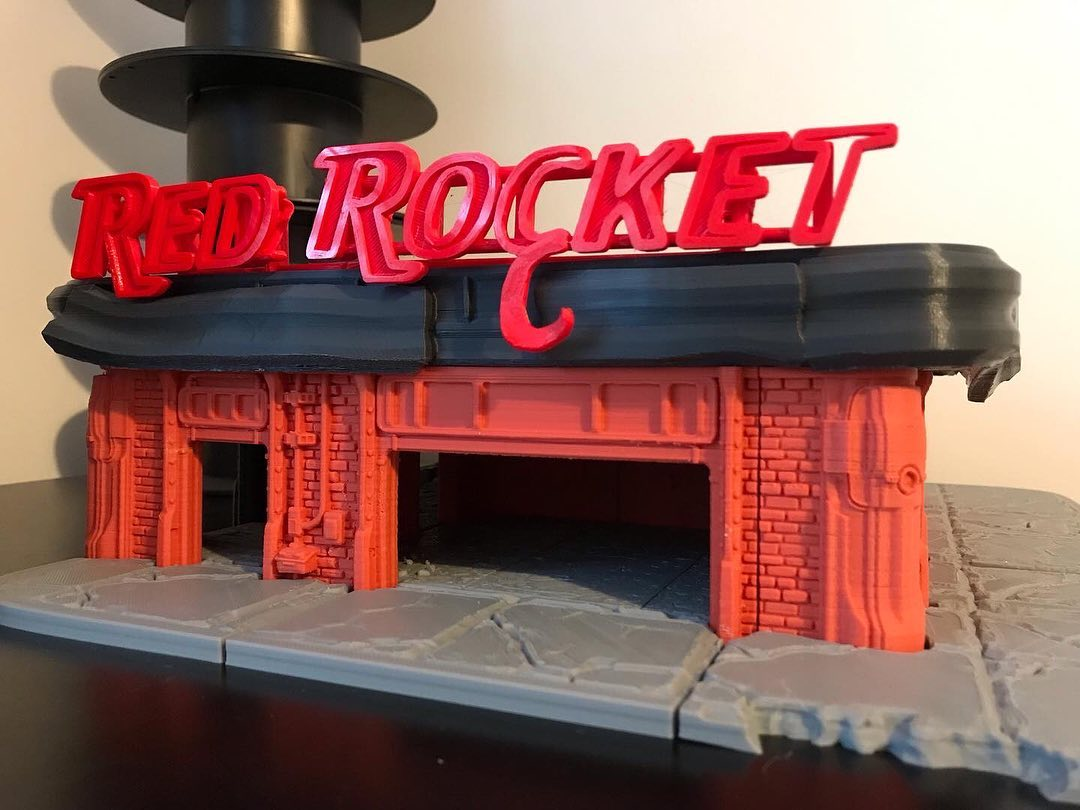
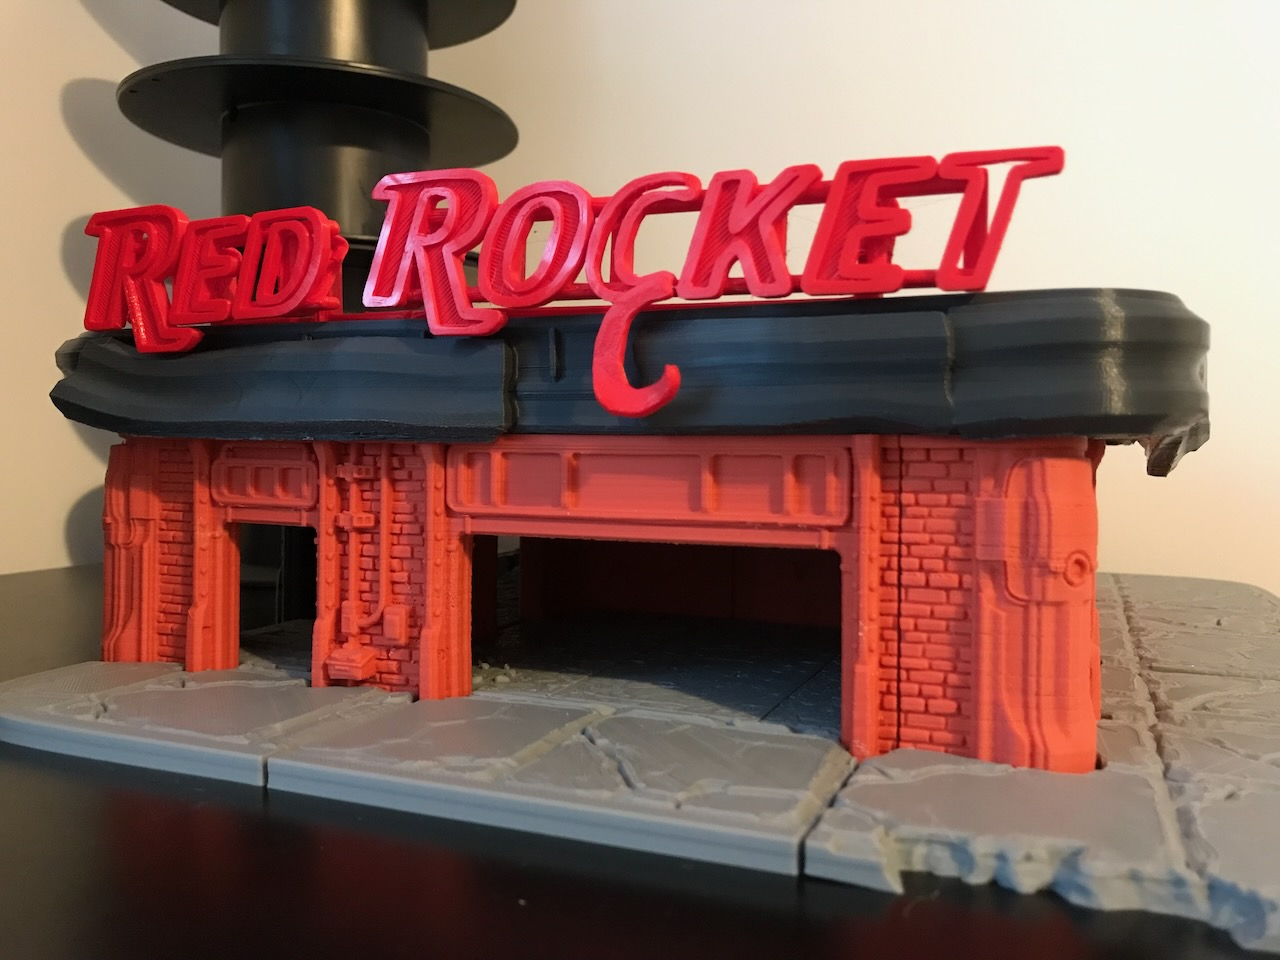
Update images on Red Rocket page

diff --git a/components/hero-post.tsx b/components/hero-post.tsx
@@ -25,7 +25,12 @@ const HeroPost = ({
   return (
     <section>
       <div className="mb-8 md:mb-16">
-        <CoverImage title={title} src={coverImage} slug={slug} imageHasPriority />
+        <CoverImage
+          title={title}
+          src={coverImage}
+          slug={slug}
+          imageHasPriority
+        />
       </div>
       <div className="md:grid md:grid-cols-2 md:gap-x-16 lg:gap-x-8 mb-20 md:mb-28">
         <div>

diff --git a/_posts/red-rocket.md b/_posts/red-rocket.md
@@ -1,6 +1,6 @@
 ---
 title: 3D Printing the Red Rocket Truck Stop
-date: 2021-04-20
+date: 2021-04-12
 lastmod: 2023-07-19
 author: Mike Thomas
 description: How I built the Red Rocket Truck Stop from Fallout 4.
@@ -42,7 +42,7 @@ keywords:
 | Right Wall A   | 1        | [Tinmorry PLA (Matte Brick Red)](printer-filament#tinmorry-pla-matte-brick-red) | 4h 17m | 12.32m | 36.75g | £0.84 | :heavy_check_mark: |       |
 | Right Wall B   | 2        | [Tinmorry PLA (Matte Brick Red)](printer-filament#tinmorry-pla-matte-brick-red) | 4h 44m | 14.75m | 43.99g | £1.01 | :heavy_check_mark: |       |
 
-![Red Rocket Walls](https://github.com/mikepthomas/mikepthomas.github.io/raw/develop/src/img/red-rocket/walls.jpg)
+![Red Rocket Walls](/assets/blog/red-rocket/walls.jpg)
 
 ## Main Roof
 
@@ -58,7 +58,7 @@ keywords:
 | Roof D              | 1        | [PrimaValue PLA (Dark Grey)](printer-filament#primavalue-pla-dark-grey) | 18h 56m | 73.9m  | 220.41g | £4.36 | :heavy_check_mark: |       |
 | Optional Shop Front | 1        | [PrimaValue PLA (Dark Grey)](printer-filament#primavalue-pla-dark-grey) | 1h 59m  | 7.72m  | 23.02g  | £0.46 | :heavy_check_mark: |       |
 
-![Red Rocket Roof](https://github.com/mikepthomas/mikepthomas.github.io/raw/develop/src/img/red-rocket/roof.jpg)
+![Red Rocket Roof](/assets/blog/red-rocket/roof.jpg)
 
 ## Canopy
 
@@ -109,7 +109,7 @@ keywords:
 | Scattered Tiles #5   | 1        | [Tinmorry PLA Filament (Grey)](printer-filament#tinmorry-pla-grey) | 4h 6m  | 10.68m | 31.86g | £0.73 | :heavy_check_mark: |       |
 | Pump Paving          | 1        | [Tinmorry PLA Filament (Grey)](printer-filament#tinmorry-pla-grey) | 4h 3m  | 13.23m | 39.46g | £0.91 | :heavy_check_mark: |       |
 
-![Red Rocket Floor](https://github.com/mikepthomas/mikepthomas.github.io/raw/develop/src/img/red-rocket/floor.jpg)
+![Red Rocket Floor](/assets/blog/red-rocket/floor.jpg)
 
 ## Accessories
 
@@ -136,7 +136,7 @@ keywords:
 
 # What is it for?
 
-![Fallout: Wasteland Warefare](https://github.com/mikepthomas/mikepthomas.github.io/raw/develop/src/img/red-rocket/fallout-wasteland-warefare.jpg)
+![Fallout: Wasteland Warefare with the Roleplaying Game expansion](/assets/blog/red-rocket/fallout-wasteland-warefare.jpg)
 
 This was printed for the Wargame [Fallout: Wasteland Warfare by Modiphius](https://www.modiphius.net/pages/fallout-wasteland-warfare).
 
